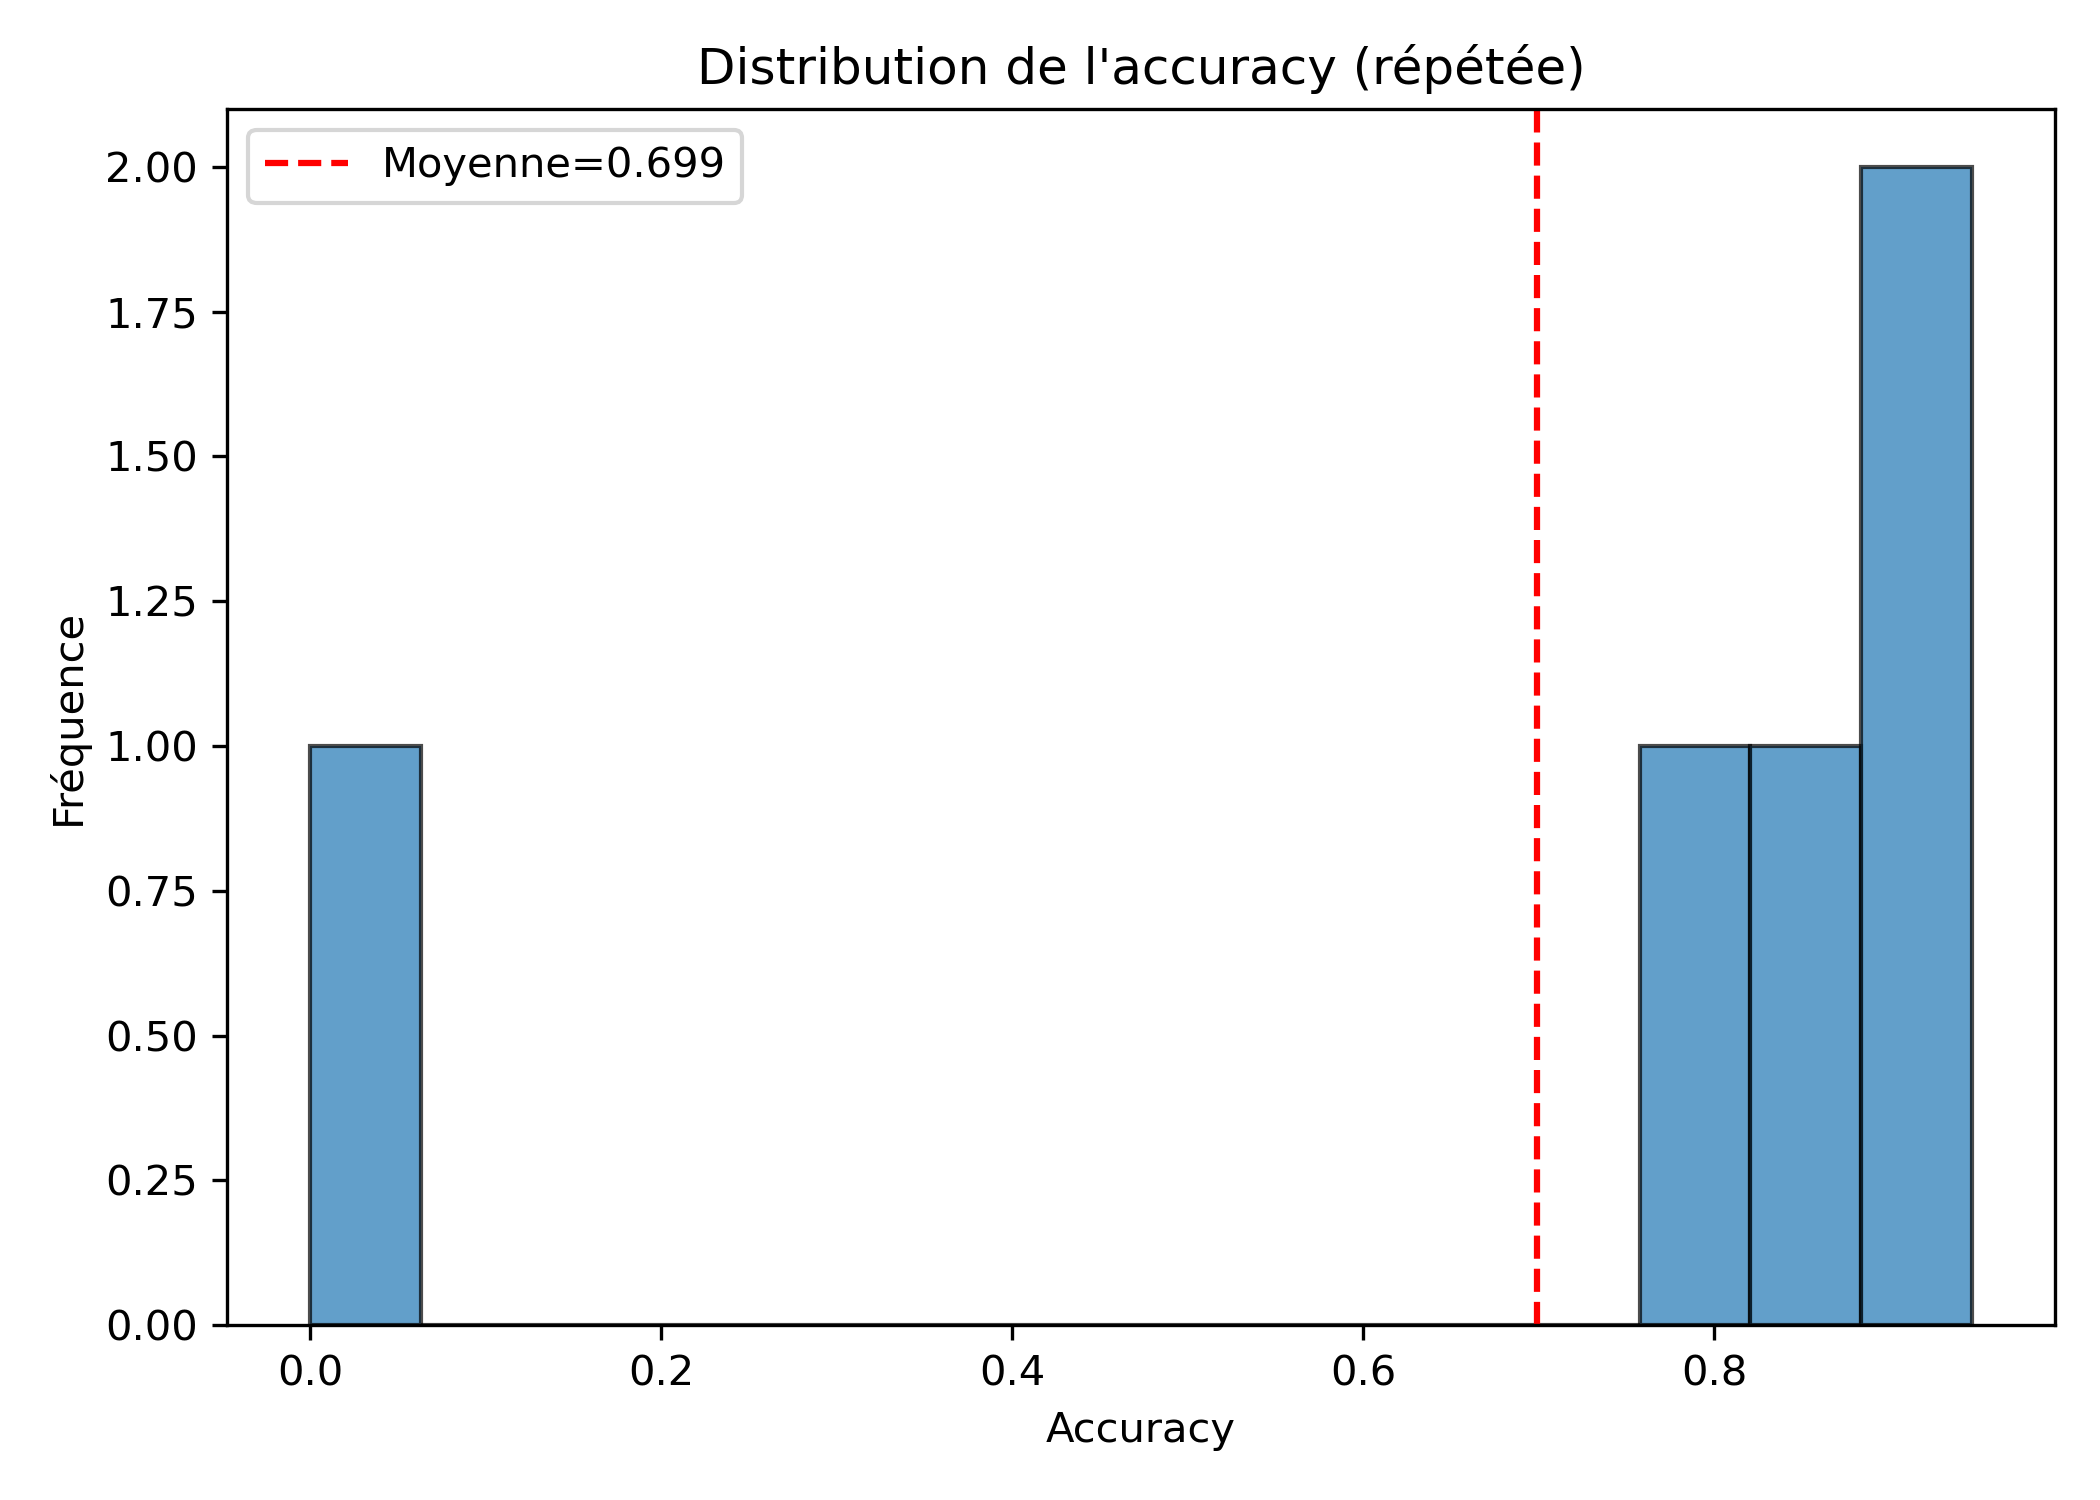
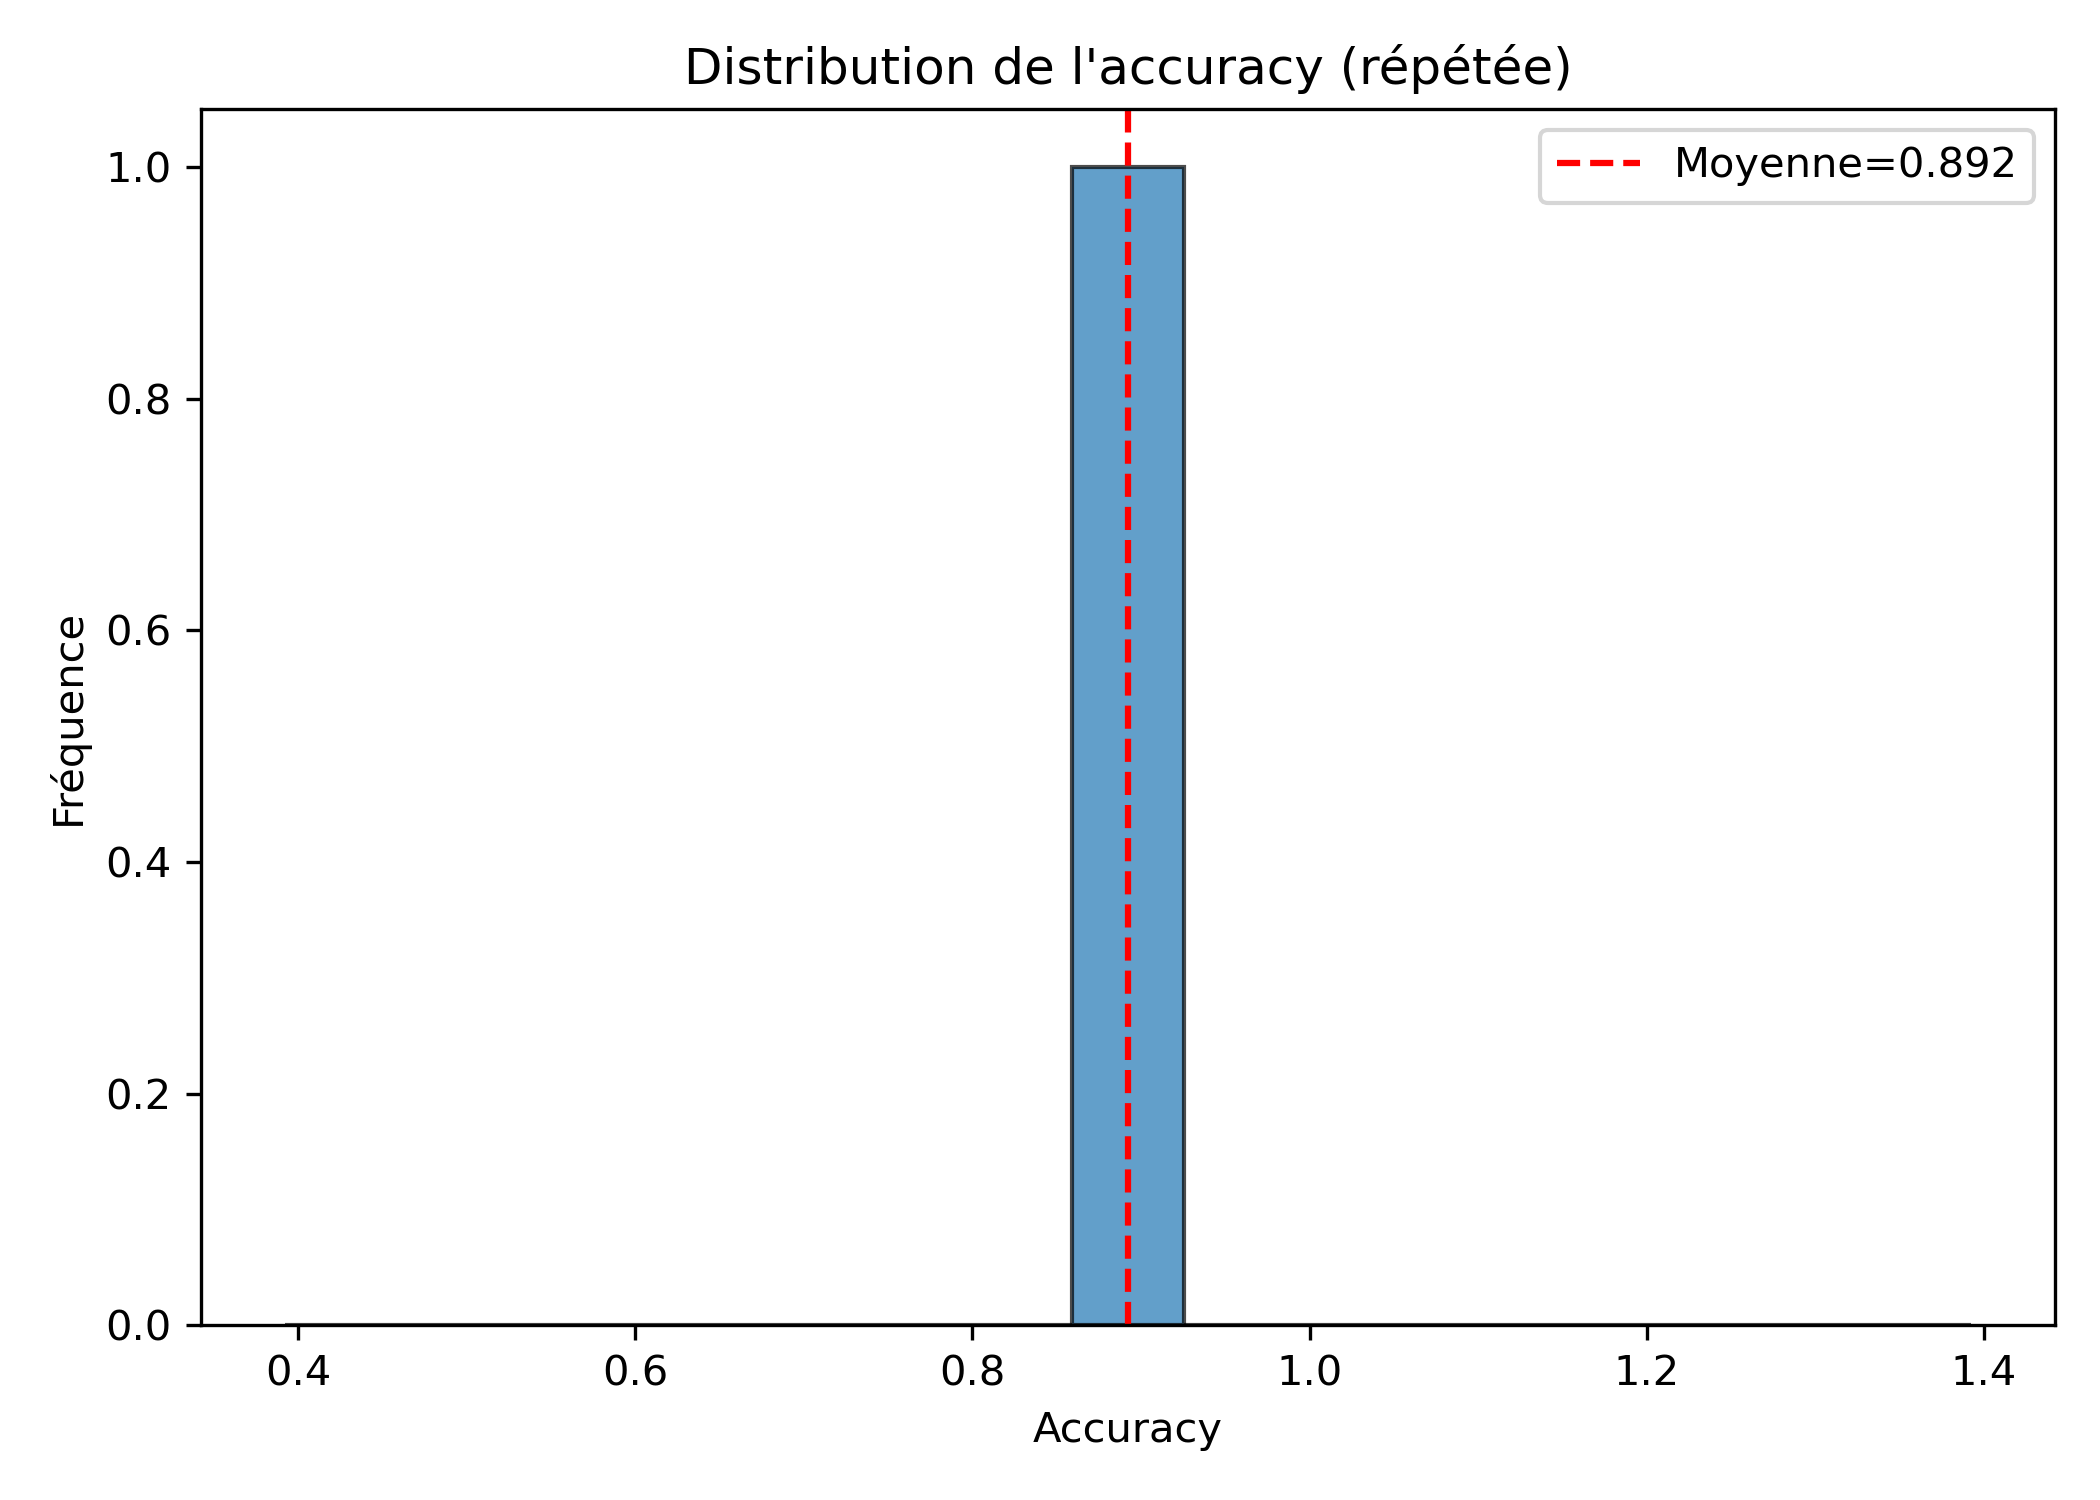
ajout vérification essence_tree

diff --git a/scripts/classification_pixel_Lucas.py b/scripts/classification_pixel_Lucas.py
@@ -162,7 +162,7 @@ if len(idx_excl) > 0:
     Y_f = np.delete(Y_f, idx_excl, axis=0)
     G_f = np.delete(G_f, idx_excl, axis=0)
 
-# Exclure ND=0 (ex.: se for NoData=0)
+# Exclure ND=0 (ex.: si NoData=0)
 nodata_mask = np.any(X_f == 0, axis=1)
 n_nodata = np.count_nonzero(nodata_mask)
 logging.info(f"Nombre de pixels ND=0 : {n_nodata}")
@@ -207,6 +207,9 @@ if X_f.shape[0] == 0:
 # ---------------------------------------------------------------------------
 # 6) Configuration du RandomForest + validation croisée
 # ---------------------------------------------------------------------------
+# Liste des classes attendues
+essence_tree = [11, 12, 13, 14, 21, 22, 23, 24, 25]
+
 clf = RF(
     max_depth=max_depth,
     oob_score=oob_score,
@@ -222,7 +225,6 @@ list_acc = []
 list_reports = []
 
 labels_uniques = np.unique(Y_f)
-
 logging.info(f"Validation croisée répétée : {nb_iter} x {nb_folds}")
 
 for repetition in range(nb_iter):
@@ -236,11 +238,20 @@ for repetition in range(nb_iter):
     for fold_i, (train_idx, test_idx) in enumerate(sgkf.split(X_f, Y_f, groups=G_f)):
         start_fold = time.time()
 
+        # Séparer les ensembles train/test
         logging.info(f"Fold {fold_i+1}/{nb_folds}, répétition {repetition+1}")
         X_train, X_test = X_f[train_idx], X_f[test_idx]
         Y_train, Y_test = Y_f[train_idx], Y_f[test_idx]
 
+        # Vérification des classes dans Y_test
+        if not np.array_equal(np.unique(Y_test), np.array(essence_tree)):
+            logging.warning(
+                f"Classes manquantes dans Y_test: {set(essence_tree) - set(np.unique(Y_test))}")
+            continue  # Passer à la prochaine itération
+
+        # Entraîner le modèle
         clf.fit(X_train, Y_train)
+        #  Prédire et évaluer
         Y_pred = clf.predict(X_test)
 
         # Matrice de confusion, OA, rapport
